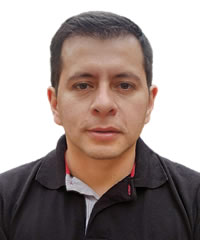
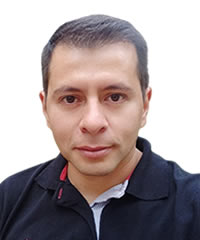
new pic

diff --git a/css/custom.css b/css/custom.css
@@ -97,6 +97,9 @@ footer{
     font-size: 0.7em;
 }
 
+#services p{
+    text-align: left;
+}
 #services .row{display: flex;}
 #services .row .col-md-4{display: flex; align-items: flex-end;}
 

diff --git a/includes/translations.php b/includes/translations.php
@@ -105,7 +105,7 @@ $translations = array(
         "welcome2" => "Tecnología para las personas",
         "welcome2l1" => "Potenciando tu negocio con soluciones de software",
         
-        "feature_t1" => "Tecnología amigable",
+        "feature_t1" => "Tecnología <br> amigable",
         "feature_c1" => "Entendemos que cada negocio tiene necesidades únicas. Por eso, ofrecemos soluciones fácilmente personalizables para asegurarnos de que tu sitio web se adapte a tus requerimientos específicos. Con nuestra experiencia, podemos crear una experiencia que refleje tu marca y te diferencie de la competencia.",
         "feature_t2" => "Interfaces centradas en el usuario",
         "feature_c2" => "Creemos que el usuario debe estar en el centro de cada decisión de diseño. Por eso, nos especializamos en crear interfaces centradas en el usuario que priorizan la usabilidad y accesibilidad. Confía en nosotros para diseñar interfaces que conecten con tus usuarios y conduzcan al éxito empresarial.",
